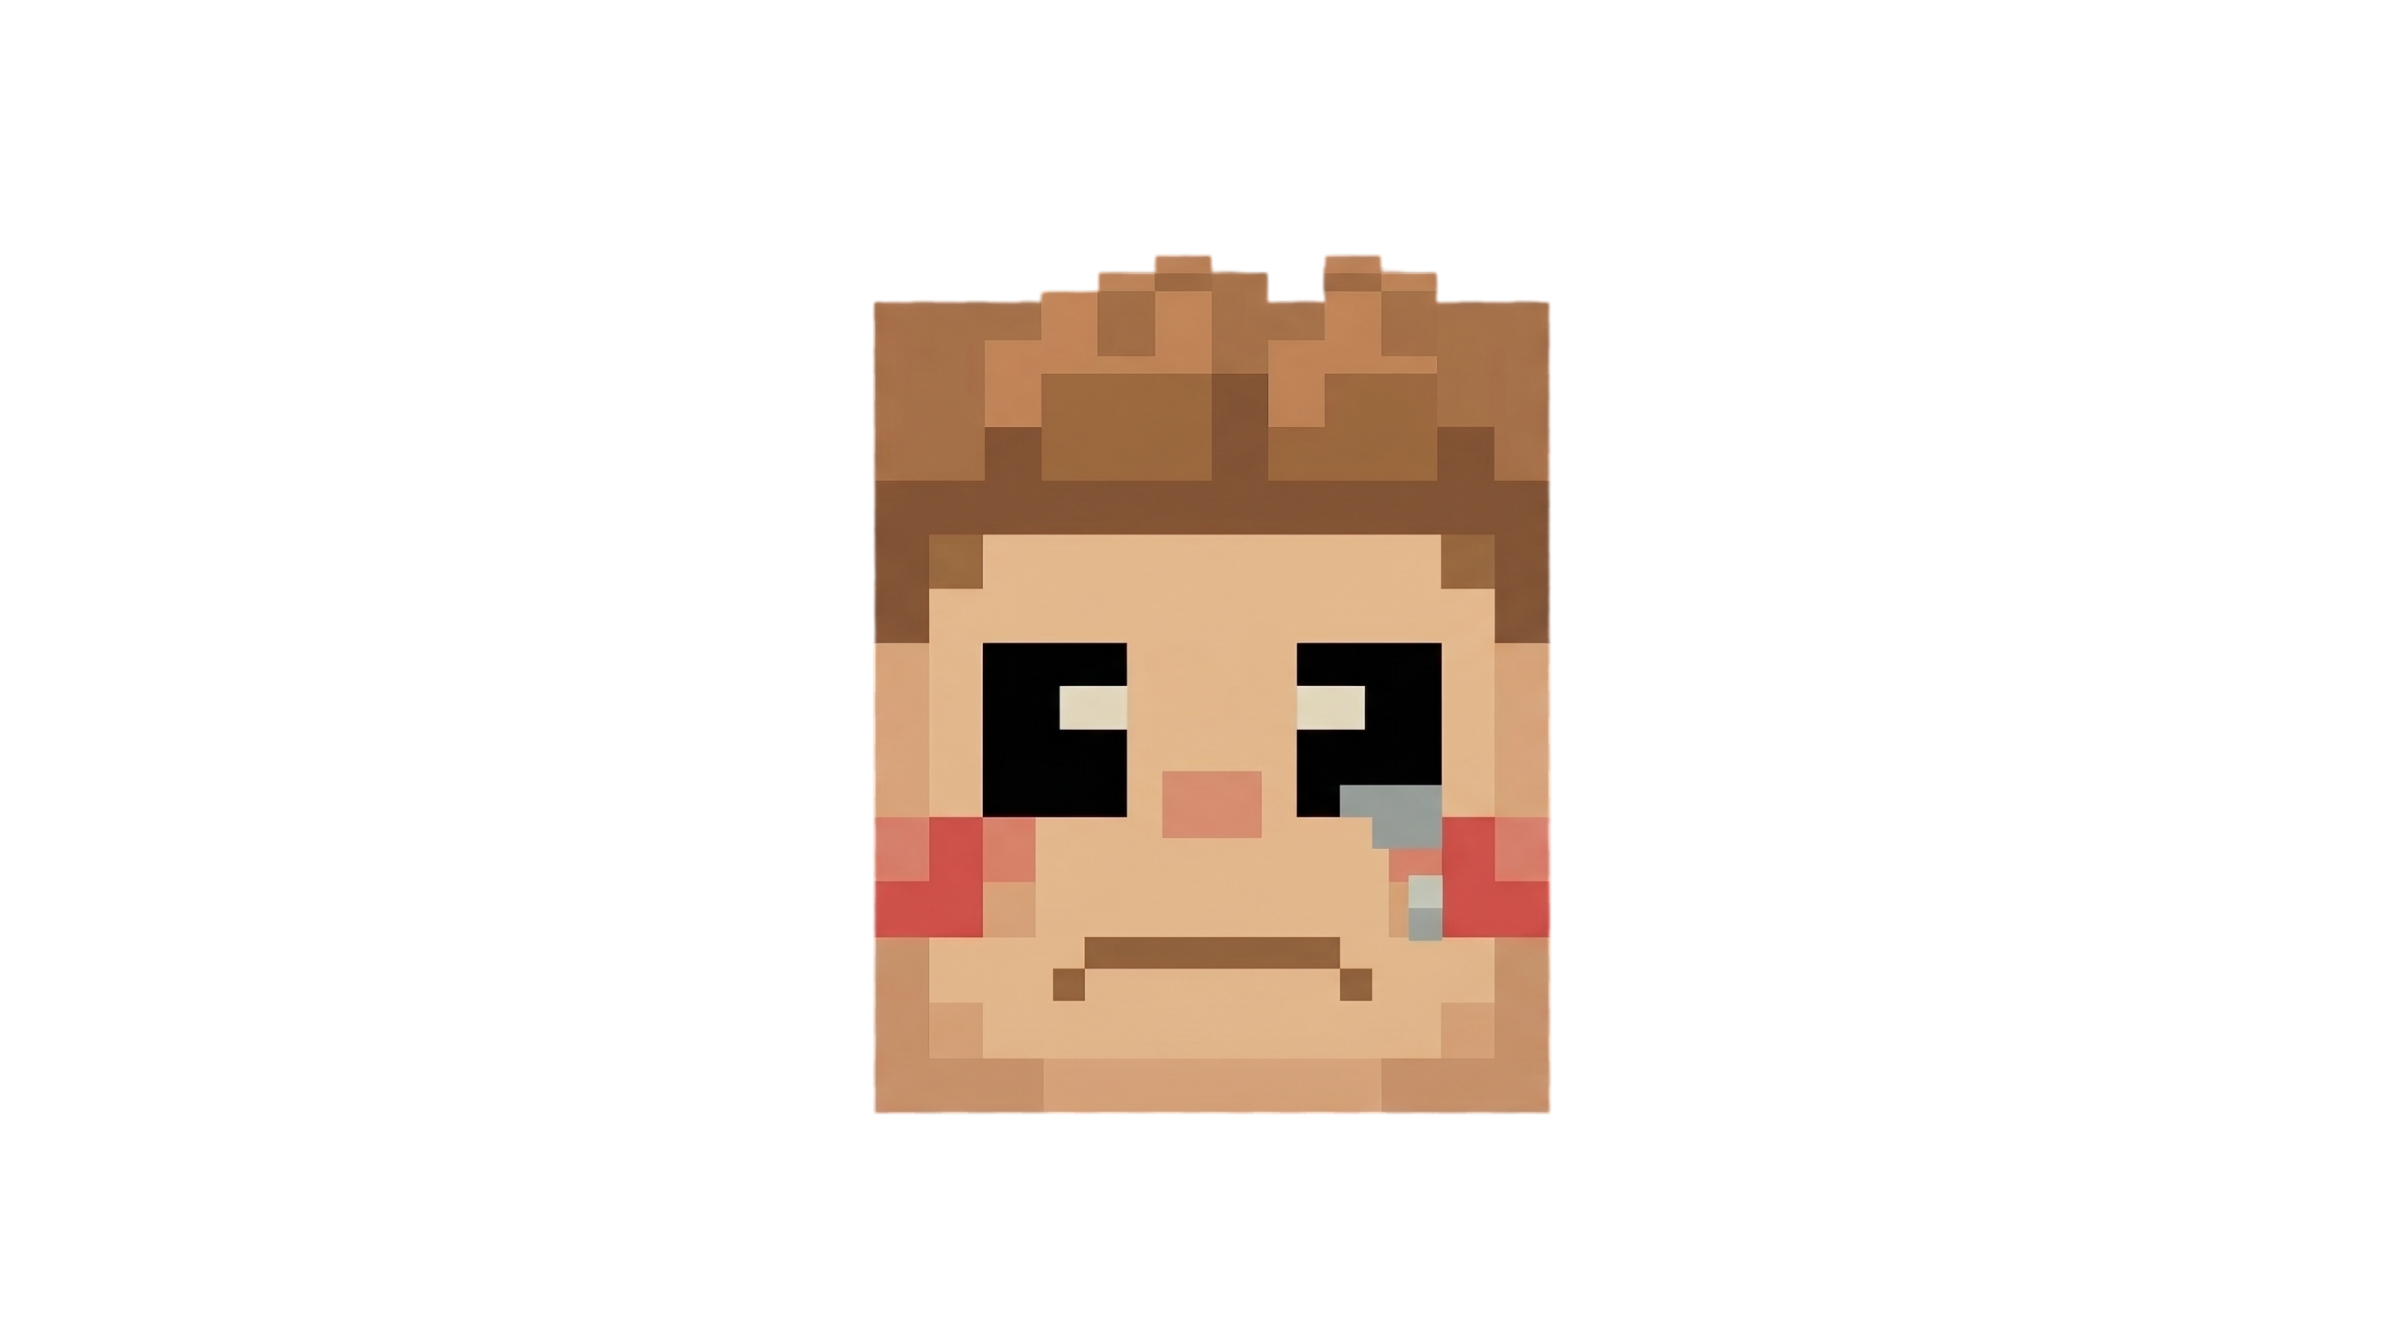
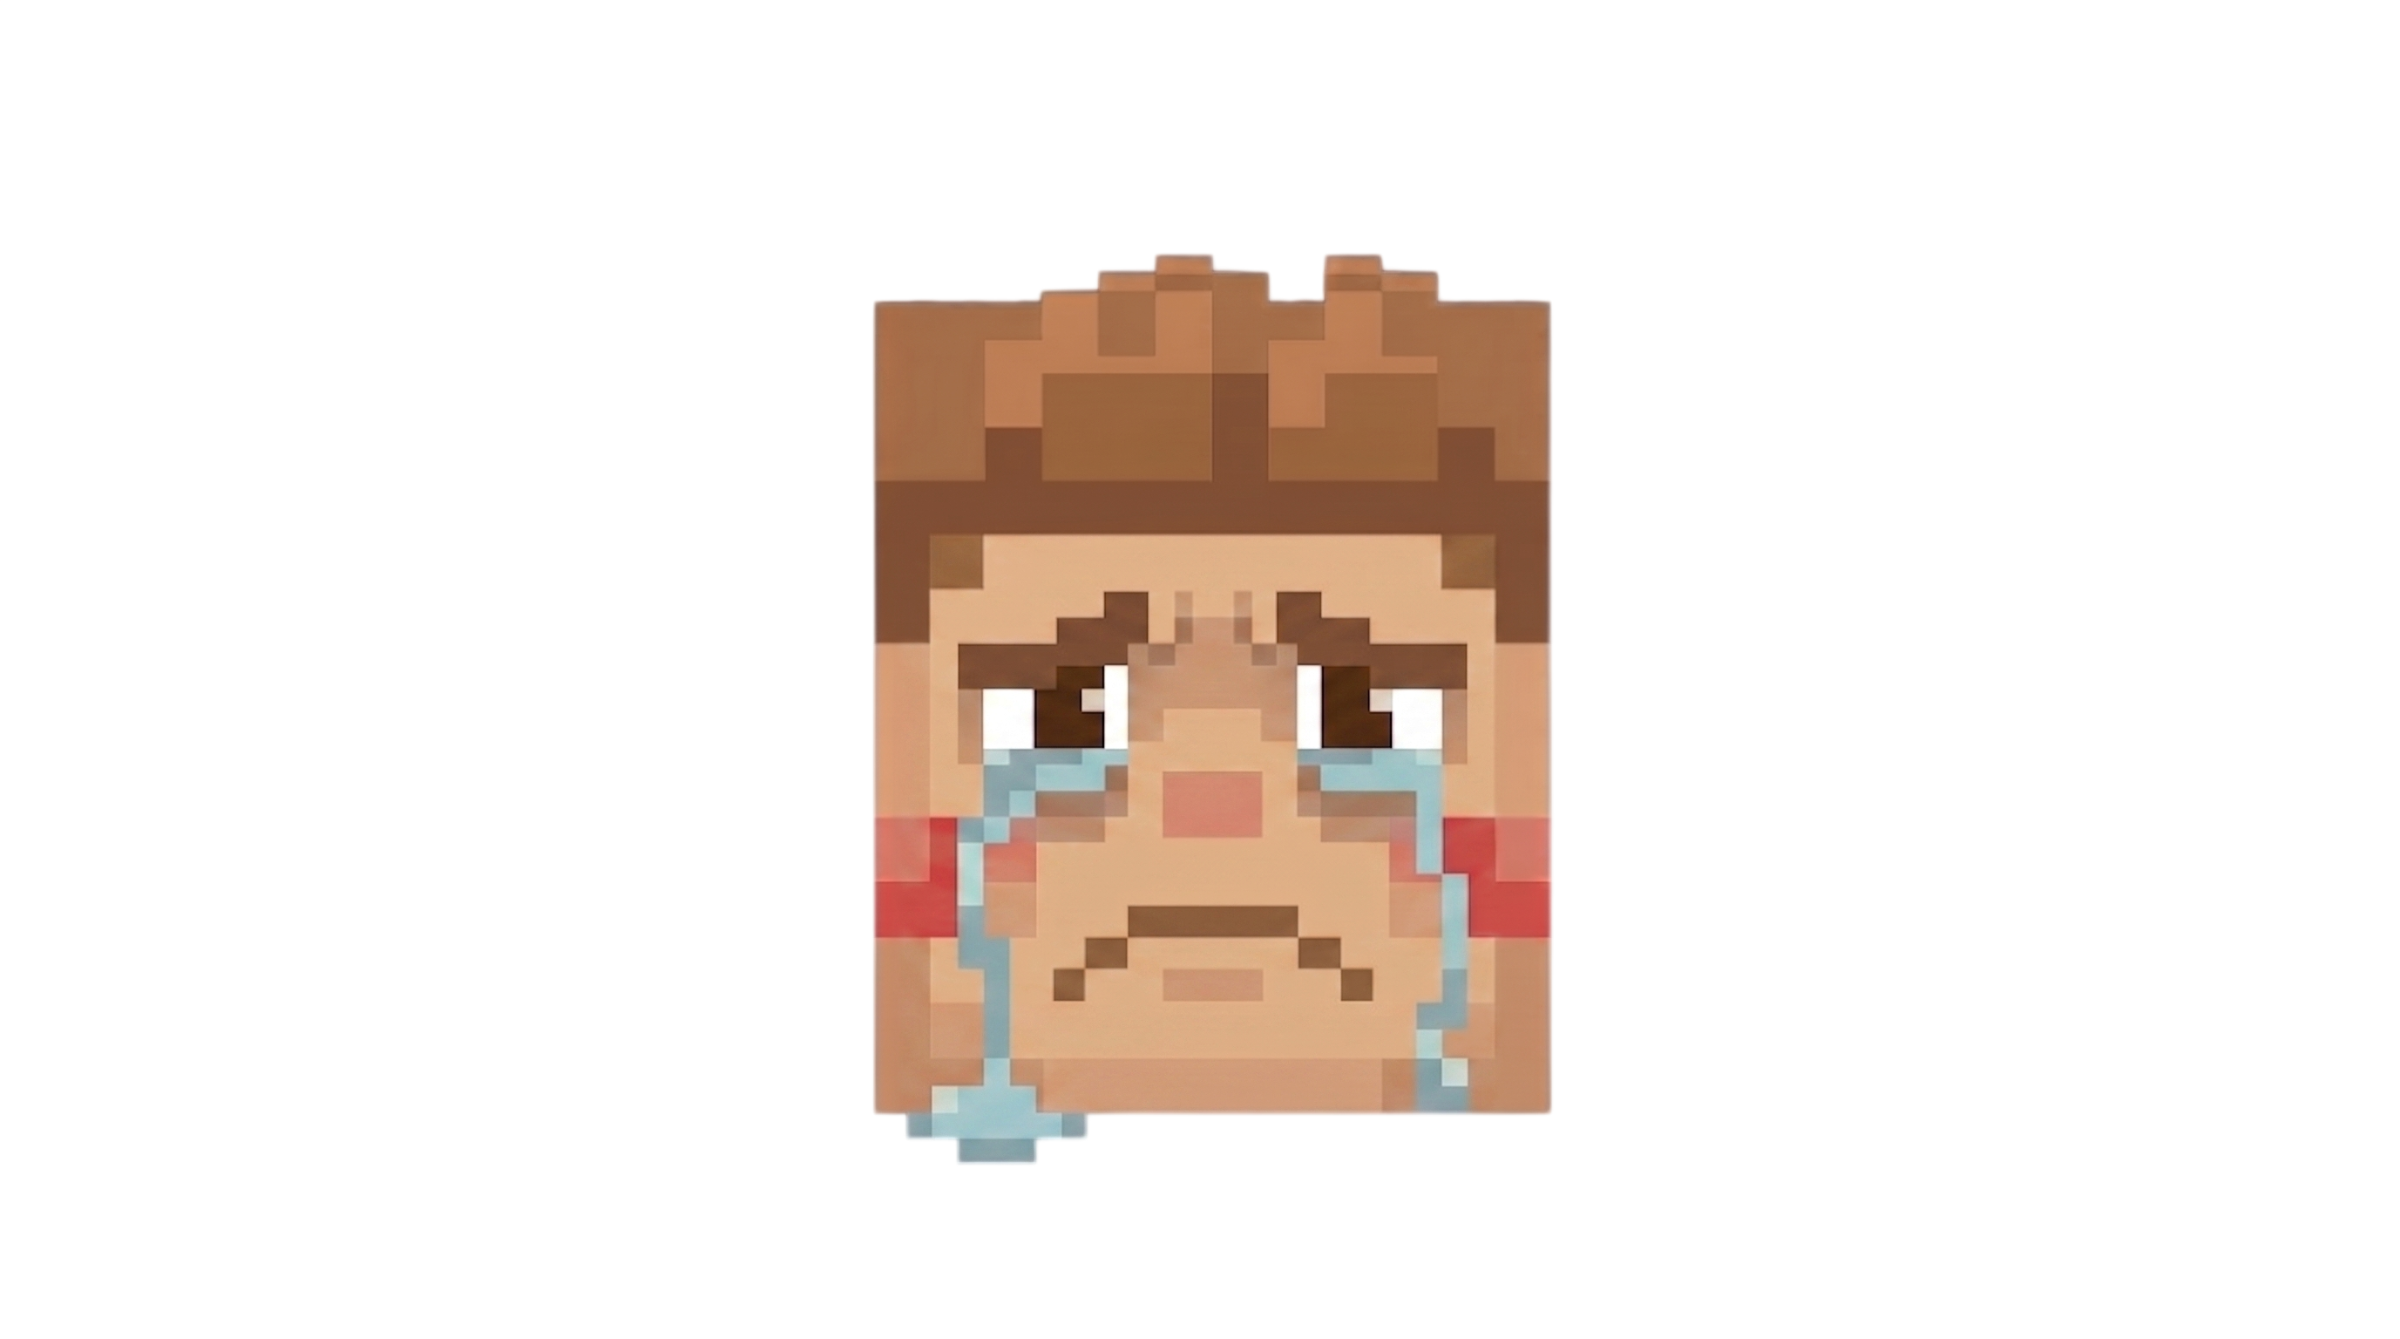
added a total timer that counts total productivity time and gives an XP boost

diff --git a/src/context/GameContext.jsx b/src/context/GameContext.jsx
@@ -23,10 +23,13 @@ export const GameProvider = ({ children }) => {
   const [hasSeenBossWarning, setHasSeenBossWarning] = useState(localStorage.getItem('hasSeenBossWarning') === 'true');
   const [insights, setInsights] = useState(() => JSON.parse(localStorage.getItem('insights')) || []);
 
-  // --- GLOBAL TIMER STATES ---
+  // --- GLOBAL TIMER & TIME TRACKING STATES ---
   const [customMinutes, setCustomMinutes] = useState(25);
   const [timeLeft, setTimeLeft] = useState(1500); 
   const [timerActive, setTimerActive] = useState(false);
+  
+  // Tracks the total amount of minutes spent focusing
+  const [totalFocusMinutes, setTotalFocusMinutes] = useState(parseInt(localStorage.getItem('totalFocusMinutes')) || 0);
 
   // GLOBAL TIMER COUNTDOWN LOGIC
   useEffect(() => {
@@ -52,13 +55,14 @@ export const GameProvider = ({ children }) => {
       localStorage.setItem('enemiesDefeated', enemiesDefeated);
       localStorage.setItem('hasSeenBossWarning', hasSeenBossWarning);
       localStorage.setItem('insights', JSON.stringify(insights));
+      localStorage.setItem('totalFocusMinutes', totalFocusMinutes);
     }
     
     // REBALANCED XP THRESHOLDS
     if (xp >= 500 && level === "Qi Condensation") setPendingTribulation("Foundation Establishment");
     if (xp >= 1500 && level === "Foundation Establishment") setPendingTribulation("Core Formation");
     if (xp >= 3500 && level === "Core Formation") setPendingTribulation("Nascent Soul");
-  }, [character, level, xp, tasks, streak, lastTaskDate, firstTaskDone, enemiesDefeated, hasSeenBossWarning, insights]);
+  }, [character, level, xp, tasks, streak, lastTaskDate, firstTaskDone, enemiesDefeated, hasSeenBossWarning, insights, totalFocusMinutes]);
 
   // 2. Check on load if the user missed a day and broke their streak
   useEffect(() => {
@@ -80,10 +84,30 @@ export const GameProvider = ({ children }) => {
   const addTask = (task) => setTasks([...tasks, task]);
   
   const completeTask = (taskId, difficulty) => {
-    // --- UPDATED XP PROGRESSION ---
-    // Scaled to require consistent cultivation to reach Foundation Establishment (500 XP)
-    const gainedXp = difficulty === 'easy' ? 10 : difficulty === 'medium' ? 20 : 30;
+    let gainedXp = difficulty === 'easy' ? 10 : difficulty === 'medium' ? 20 : 30;
     
+    // --- UPDATED: 5-HOUR MILESTONE LOGIC ---
+    if (difficulty === 'hard') {
+      // Divide by 300 minutes (5 hours) to find out how many 5-hour blocks they've completed
+      const oldMilestones = Math.floor(totalFocusMinutes / 300);
+      const newTotalMinutes = totalFocusMinutes + customMinutes;
+      const newMilestones = Math.floor(newTotalMinutes / 300);
+
+      // If they crossed a 5-hour threshold (e.g., went from 290 mins to 315 mins)
+      if (newMilestones > oldMilestones) {
+        // Give 20 XP for every 5-hour milestone reached
+        const bonusXp = (newMilestones - oldMilestones) * 20; 
+        gainedXp += bonusXp;
+        
+        // Trigger a special notification for the milestone
+        setTimeout(() => {
+           triggerNotification('flame', `Dao Mastery: +${bonusXp} Bonus XP!`);
+        }, 1000); 
+      }
+      
+      setTotalFocusMinutes(newTotalMinutes);
+    }
+
     setXp(prev => prev + gainedXp);
     setTasks(prev => prev.filter(t => t.id !== taskId));
     setEnemiesDefeated(prev => prev + 1);
@@ -115,14 +139,12 @@ export const GameProvider = ({ children }) => {
   };
 
   const abandonTask = (taskId) => {
-    // Remove the task from the list
     setTasks(prev => prev.filter(t => t.id !== taskId));
     
-    // BUG FIX: If you flee the boss you are currently fighting, reset the arena AND the timer!
     if (activeBattle && activeBattle.id === taskId) {
       setActiveBattle(null);
-      setTimerActive(false); // Stop the clock
-      setTimeLeft(customMinutes * 60); // Reset the time back to full
+      setTimerActive(false); 
+      setTimeLeft(customMinutes * 60); 
     }
   };
 
@@ -143,8 +165,7 @@ export const GameProvider = ({ children }) => {
     setPendingTribulation(null);
     setHasSeenBossWarning(false);
     setInsights([]); 
-    
-    // Reset timer for new user
+    setTotalFocusMinutes(0);
     setTimerActive(false);
     setTimeLeft(1500);
     setCustomMinutes(25);
@@ -159,8 +180,8 @@ export const GameProvider = ({ children }) => {
       notification, triggerNotification, resetProgressForNewUser,
       hasSeenBossWarning, setHasSeenBossWarning,
       insights, setInsights,
-      // Exporting Timer States
-      customMinutes, setCustomMinutes, timeLeft, setTimeLeft, timerActive, setTimerActive
+      customMinutes, setCustomMinutes, timeLeft, setTimeLeft, timerActive, setTimerActive,
+      totalFocusMinutes, setTotalFocusMinutes 
     }}>
       {children}
     </GameContext.Provider>

diff --git a/src/pages/CharacterProfile.jsx b/src/pages/CharacterProfile.jsx
@@ -4,9 +4,19 @@ import { Navigate } from 'react-router-dom';
 import Navbar from '../components/Navbar';
 
 const CharacterProfile = () => {
-  const { character, level, xp, streak, enemiesDefeated, insights } = useContext(GameContext);
+  // NEW: Bringing in totalFocusMinutes from Context
+  const { character, level, xp, streak, enemiesDefeated, insights, totalFocusMinutes } = useContext(GameContext);
 
   if (!character) return <Navigate to="/" />;
+
+  // NEW: Math to convert total raw minutes into clean Hours and Minutes
+  const hours = Math.floor(totalFocusMinutes / 60);
+  const minutes = totalFocusMinutes % 60;
+  
+  // Format the text elegantly depending on whether they've reached a full hour yet
+  const formattedTime = hours > 0 
+    ? `${hours}h ${minutes}m` 
+    : `${minutes}m`;
 
   return (
     <div style={{ maxWidth: '1000px', margin: '0 auto', padding: '0 15px' }}>
@@ -14,7 +24,7 @@ const CharacterProfile = () => {
       
       <div className="glass-panel" style={{ display: 'flex', gap: '30px', alignItems: 'flex-start', flexWrap: 'wrap' }}>
         
-        {/* Left Stats Column - Notice the new className here! */}
+        {/* Left Stats Column */}
         <div className="profile-stats-col" style={{ flex: '1', minWidth: '250px', textAlign: 'center' }}>
           <img 
             src={`/assets/${character.classId}-cave.png`} 
@@ -27,7 +37,13 @@ const CharacterProfile = () => {
           <div style={{ background: 'rgba(0,0,0,0.6)', padding: '15px', borderRadius: '8px', border: '1px solid var(--accent-red)' }}>
             <p style={{ margin: '5px 0' }}><strong>Current XP:</strong> {xp}</p>
             <p style={{ margin: '5px 0' }}><strong>Demons Slain:</strong> {enemiesDefeated}</p>
-            <p style={{ margin: '5px 0' }}><strong>Unbroken Resolve:</strong> {streak} Days</p>
+            <p style={{ margin: '5px 0' }}><strong>Unbroken Resolve:</strong> {streak} {streak === 1 ? 'Day' : 'Days'}</p>
+            
+            {/* NEW: Displays their total productive time! */}
+            <p style={{ margin: '10px 0 5px 0', borderTop: '1px dashed var(--line-light)', paddingTop: '10px', color: 'var(--accent-orange)' }}>
+              <strong>Focused Cultivation:</strong>
+              <br/>{formattedTime}
+            </p>
           </div>
         </div>
 

diff --git a/src/pages/Dashboard.jsx b/src/pages/Dashboard.jsx
@@ -357,7 +357,7 @@ const Dashboard = () => {
             <div style={{ display: 'flex', alignItems: 'center', gap: '15px', padding: '10px', background: 'rgba(0,0,0,0.5)', borderRadius: '8px' }}>
                 <img src="/assets/flame.png" className={`sect-flame ${streakPulse ? 'is-pulsing' : ''}`} alt="flame" />
                 <div style={{ textAlign: 'left' }}>
-                    <h3 style={{ margin: 0, color: 'var(--accent-orange)' }}>{streak} Days</h3>
+                    <h3 style={{ margin: 0, color: 'var(--accent-orange)' }}>{streak} {streak === 1 ? 'Day' : 'Days'}</h3>
                     <span style={{ fontSize: '0.9rem', color: '#fff' }}>Current Streak</span>
                 </div>
             </div>
@@ -371,8 +371,17 @@ const Dashboard = () => {
           </div>
 
           <h2 style={{ borderBottom: '1px solid var(--line-light)', marginTop: '30px' }}>Current Mood</h2>
-          <div style={{ textAlign: 'center', margin: '20px 0', minHeight: '80px' }}>
-              <img src={`/assets/${mood}`} style={{ width: '80px', height: '80px', objectFit: 'contain', filter: 'drop-shadow(0 0 10px rgba(255,69,0,0.5))' }} alt="current mood" />
+          <div style={{ textAlign: 'center', margin: '20px 0', minHeight: '120px' }}>
+              <img 
+                src={`/assets/${mood}`} 
+                style={{ 
+                  width: '120px', 
+                  height: '120px', 
+                  objectFit: 'contain', 
+                  filter: 'drop-shadow(0 0 10px rgba(255,69,0,0.5))' 
+                }} 
+                alt="current mood" 
+              />
           </div>
           
           <div style={{ display: 'grid', gridTemplateColumns: '1fr 1fr', gap: '10px' }}>
